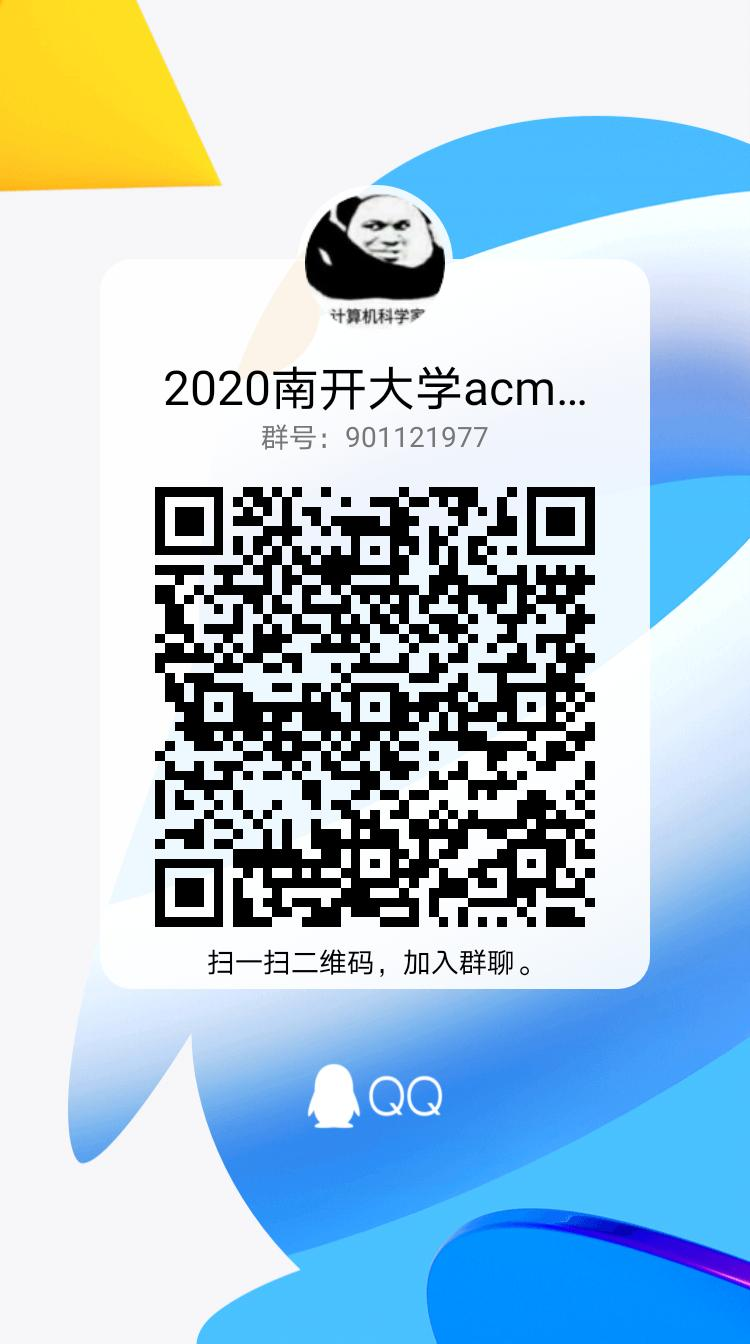
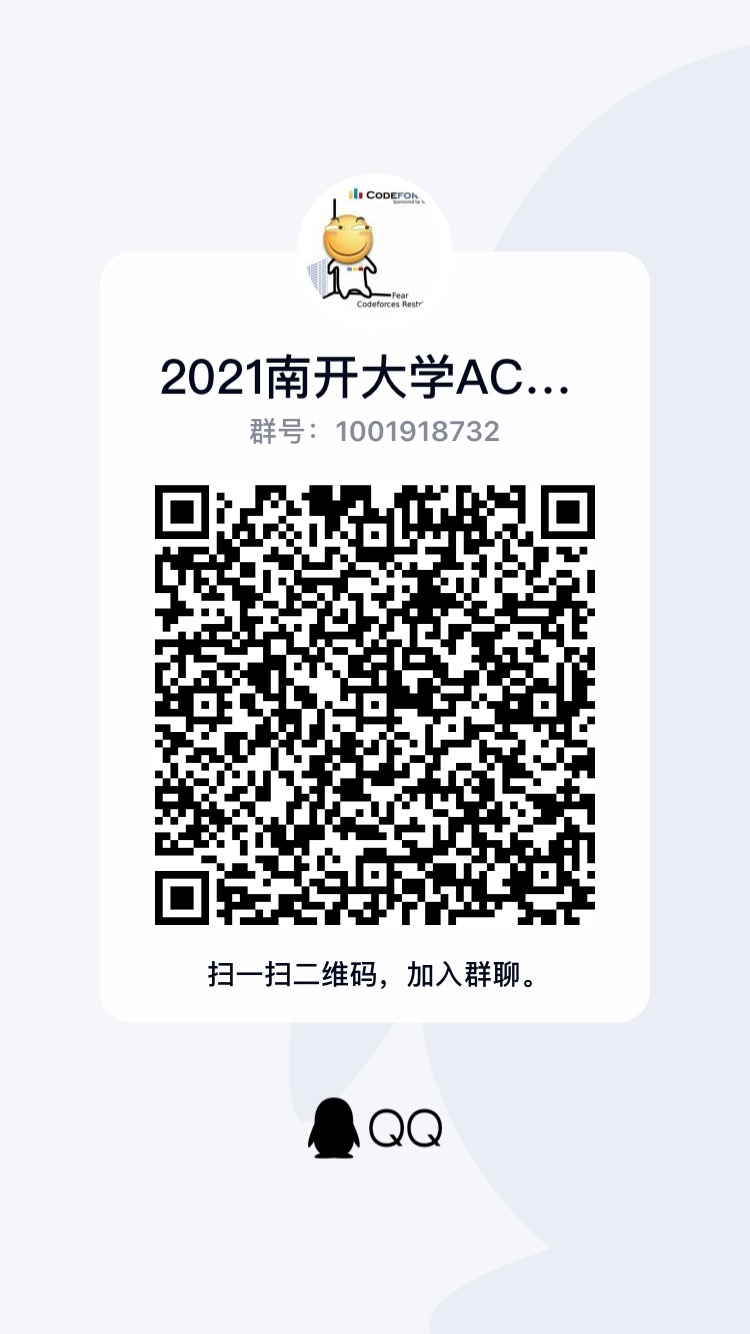
Fix: update 2021 qq group

diff --git a/src/components/footer.vue b/src/components/footer.vue
@@ -1,8 +1,8 @@
 <template>
   <div class="footer band-with-40padding">
-    <div class="contact">NKUACM 2020
+    <div class="contact">NKUACM 2021
       南开大学ACM算法协会
-      QQ群:901121977
+      QQ群:1001918732
     </div>
     <div class="copyright" title="Sun Wei & Wang Yan & SunriseFox & Saurus & rmdyh & windring & Shiien">© Copyright 2005-2021  NKU ACM Association. All Rights Reserved.</div>
   </div>
